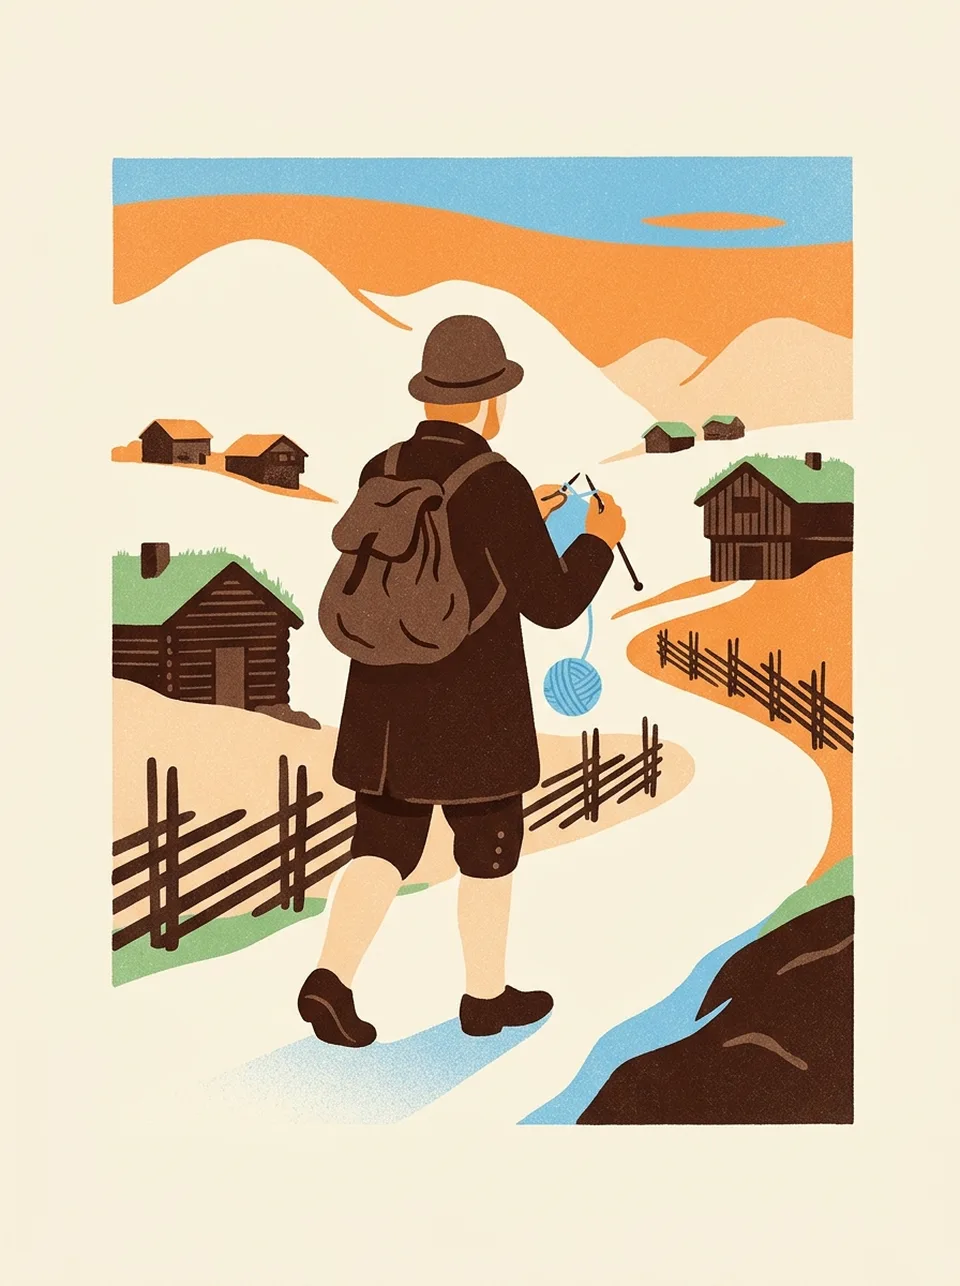
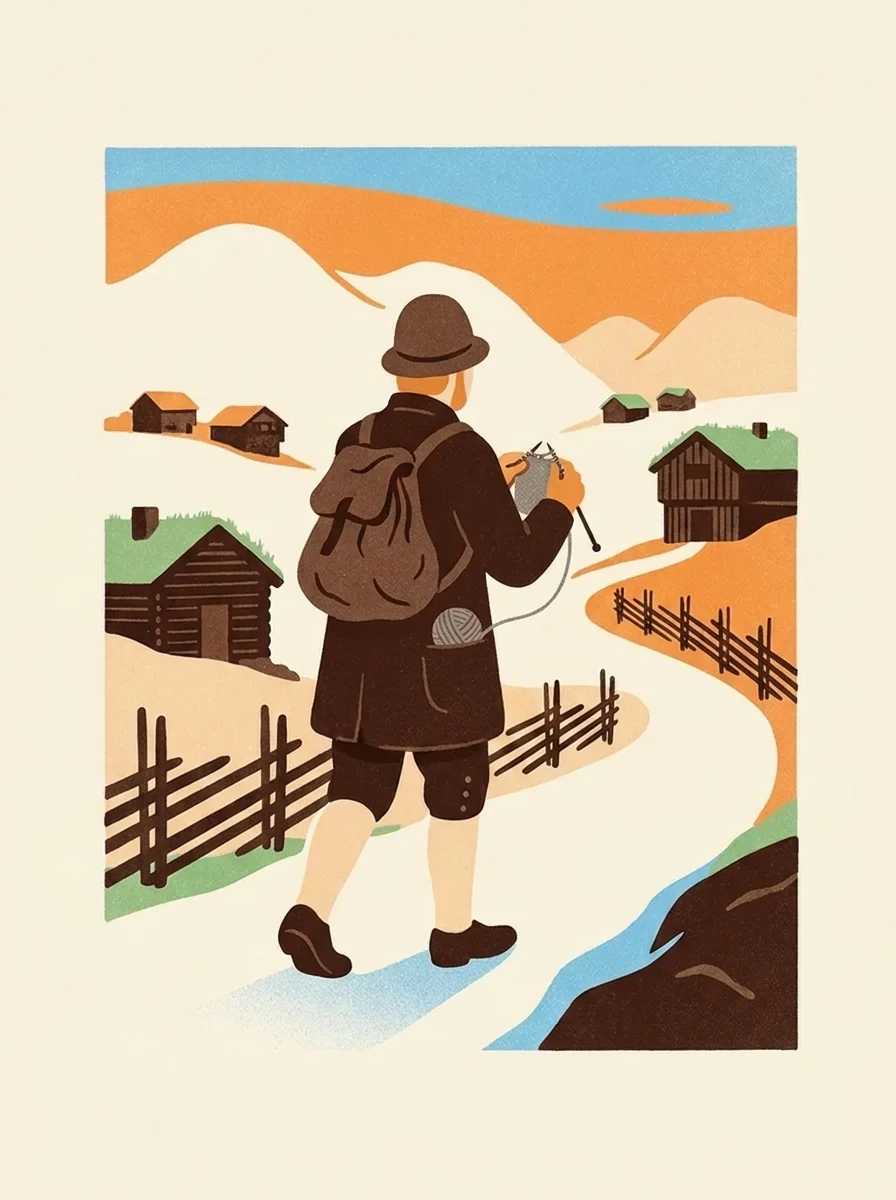
Krøniken: Hauge og strikkingen – nytt bilde, og fortellingen omtales som en mulig myte i lysbilde og lesehistorie
Claude-Session: https://claude.ai/code/session_014BdYtYS8Ragv9DejD2uiKp

diff --git a/kroniken/innhold/menneskerettigheter/historier.js b/kroniken/innhold/menneskerettigheter/historier.js
@@ -69,18 +69,20 @@ mellom:[['Hvorfor var det modig å dele ut løpesedlene?','Mange i England mente
 snakk:'Jebb hjalp barna til dem som hadde vært landets fiender. Er det vanskeligere å hjelpe noen man har vært uvenner med? Bør det spille noen rolle?'},
 
 {id:'hauge',tittel:'Mannen som gikk og strikket',kilde:'historie',henvisning:'Norge, 1796–1814',bilde:'hauge.webp',
-ord:[['lekmann','en vanlig person som ikke er prest'],['å forkynne','å tale om troen sin for å få andre til å tro'],['konventikkel','et gammelt ord for et religiøst møte utenfor kirken'],['skreppe','en gammeldags ryggsekk']],
+ord:[['lekmann','en vanlig person som ikke er prest'],['å forkynne','å tale om troen sin for å få andre til å tro'],['konventikkel','et gammelt ord for et religiøst møte utenfor kirken'],['skreppe','en gammeldags ryggsekk'],['myte','en fortelling mange tror på, men som ingen har klart å bevise']],
 tekst:[
 'Hans Nielsen Hauge ble født i 1771 på en gård i Tune i Østfold. Han var bondesønn og hadde bare noen få års skolegang. En vårdag i 1796, da han var tjuefem år og gikk og arbeidet på jordet, fikk han en sterk opplevelse av at Gud kalte ham.',
-'Fra den dagen brukte han livet til å fortelle andre om troen sin. Han la ut på vandring. I løpet av noen år gikk han tusenvis av kilometer, gjennom store deler av landet, fra gård til gård. Han hadde skreppe på ryggen, og det fortelles at han strikket mens han gikk, slik at ikke tiden skulle gå til spille.',
+'Fra den dagen brukte han livet til å fortelle andre om troen sin. Han la ut på vandring. I løpet av noen år gikk han tusenvis av kilometer, gjennom store deler av landet, fra gård til gård. Han hadde skreppe på ryggen.',
+'I mange år har folk fortalt at Hauge strikket mens han gikk, slik at ikke tiden skulle gå til spille. Slik har han blitt tegnet og husket. Men er det sant?',
+'Ingen vet det sikkert. De som har lett i gamle papirer, har ikke funnet noen som så ham gjøre det. Det vi vet, er at han strikket i fengselet. Det har Hauge selv fortalt i et brev. Kanskje er strikkingen på landeveien en myte, en god fortelling som har vokst seg større for hver gang den ble fortalt.',
 'Der han kom, samlet han folk i stuene og talte. Han skrev bøker som ble lest over hele landet. Han startet også bedrifter, blant annet en papirmølle, og hjalp andre i gang med handel og håndverk. Tilhengerne hans, haugianerne, ble kjent som flittige og ærlige folk.',
 'Men Hauge gjorde noe ulovlig. En lov fra 1741 sa at vanlige folk ikke fikk holde religiøse møter uten at presten hadde gitt lov. Bare prestene skulle forkynne. Hauge var lekmann, og han spurte ikke om lov.',
 'Han ble arrestert gang på gang. I 1804 ble han satt i fengsel i Christiania, som Oslo het den gangen. Der ble han sittende i årevis mens saken ble utredet. Helsa hans ble ødelagt.',
 'Først i 1814, samme år som Norge fikk sin grunnlov, falt den endelige dommen. Da ble straffen bare en bot.',
 'Hauge døde i 1824. Loven han hadde brutt, ble opphevet i 1842. Tre år senere fikk kristne utenfor statskirken lov til å danne egne menigheter.',
 'Hauge ville ikke lage en ny kirke. Han var lutheraner hele livet. Det han krevde, var retten til å snakke høyt om det han trodde på.'],
-finn:[['Hvor ble Hans Nielsen Hauge født?','På en gård i Tune i Østfold.'],['Hva gjorde han mens han gikk, ifølge fortellingene?','Han strikket.'],['Hvilket år ble loven han brøt, opphevet?','1842.']],
-mellom:[['Hvorfor ble Hauge arrestert?','Han holdt religiøse møter og forkynte uten å være prest og uten å spørre presten om lov.'],['Hva har Hauges sak med både religionsfrihet og ytringsfrihet å gjøre?','Han krevde retten til å tro på sin måte og til å snakke høyt om det.']],
+finn:[['Hvor ble Hans Nielsen Hauge født?','På en gård i Tune i Østfold.'],['Hvor vet vi sikkert at Hauge strikket?','I fengselet. Det har han selv fortalt i et brev.'],['Hvilket år ble loven han brøt, opphevet?','1842.']],
+mellom:[['Hvorfor ble Hauge arrestert?','Han holdt religiøse møter og forkynte uten å være prest og uten å spørre presten om lov.'],['Hva har Hauges sak med både religionsfrihet og ytringsfrihet å gjøre?','Han krevde retten til å tro på sin måte og til å snakke høyt om det.'],['Hvorfor er vi mer sikre på at Hauge strikket i fengselet enn på landeveien?','Om fengselet har vi hans eget brev. Om landeveien har vi bare fortellinger som er skrevet ned lenge etterpå.']],
 snakk:'Hauge brøt loven fordi han mente den var urettferdig. Er det noen gang riktig å bryte en lov? Hva bør man i så fall være villig til å tåle?'},
 
 {id:'malala',tittel:'Jenta som ville gå på skolen',kilde:'historie',henvisning:'Pakistan, Storbritannia og Oslo, 2009–2014',bilde:'malala.webp',

diff --git a/kroniken/innhold/menneskerettigheter/tema3-religionsfrihet.js b/kroniken/innhold/menneskerettigheter/tema3-religionsfrihet.js
@@ -16,12 +16,13 @@ lysbilder:[
  'Grunnloven fra 1814 ga mange friheter, men ikke religionsfrihet.',
  'Den sa at jøder og jesuitter ikke hadde adgang til riket.'],
  n:['Jesuittene er en katolsk munkeorden.','Bildet viser Eidsvollsbygningen, der Grunnloven ble skrevet.','Fortellingen om Henrik Wergeland og jødeparagrafen finnes som lesehistorie under Jødedommen.']},
-{type:'punkter',kicker:'1771–1824',tittel:'Hans Nielsen Hauge',hoyre:true,bilde:{fil:'hauge.webp',alt:'En mann i bondeklær fra rundt 1800 med skreppe på ryggen sett bakfra. Han går langs en landevei forbi gårder med torvtak og strikker mens han går'},punkter:[
+{type:'punkter',kicker:'1771–1824',tittel:'Hans Nielsen Hauge',hoyre:true,bilde:{fil:'hauge.webp',alt:'En mann i bondeklær fra rundt 1800 med skreppe på ryggen sett bakfra. Han går langs en landevei forbi gårder med torvtak og strikker mens han går, slik en kjent fortelling sier at Hauge gjorde'},punkter:[
  'Bondesønnen **Hans Nielsen Hauge** vandret rundt i Norge og talte om kristen tro.',
  'Det var forbudt for andre enn prester.',
  'Han ble arrestert mange ganger og satt til slutt mange år i fengsel.',
- 'Loven han brøt, ble fjernet i 1842.'],
- n:['Loven het konventikkelplakaten og var fra 1741.','Hauge var selv luthersk kristen. Saken viser at religionsfrihet også handler om retten til å tro på sin egen måte innenfor flertallets religion.','Fortellingen finnes som lesetekst: «Mannen som gikk og strikket».']},
+ 'Loven han brøt, ble fjernet i 1842.',
+ 'Det fortelles at han strikket mens han gikk. Ingen har funnet bevis for det. Kanskje er det en **myte**.'],
+ n:['Loven het konventikkelplakaten og var fra 1741.','Hauge var selv luthersk kristen. Saken viser at religionsfrihet også handler om retten til å tro på sin egen måte innenfor flertallets religion.','Fortellingen finnes som lesetekst: «Mannen som gikk og strikket».','Myte eller fakta? Strikkehistorikeren Nina Granlund Sæther skriver at fortellingene om strikking på vandring ikke har troverdige kilder, men at Hauge selv forteller i et brev at han strikket i fengselet (1804–1811). Spør elevene: Hvordan kan vi finne ut om en gammel fortelling er sann?']},
 {type:'tidslinje',kicker:'Steg for steg',tittel:'Veien til religionsfrihet i Norge',punkter:[
  {aar:'1845',tekst:['Andre kristne kirker','blir tillatt']},{aar:'1851',tekst:['Jøder får','komme til Norge']},{aar:'1956',tekst:['Forbudet mot','jesuitter fjernes']},{aar:'1964',tekst:['Religionsfrihet','inn i Grunnloven']},{aar:'2012',tekst:['Slutt på','statskirken']}],
  n:['Loven fra 1845 kalles dissenterloven. En dissenter var en kristen som sto utenfor statskirken.','Det tok altså 150 år fra Grunnloven ble skrevet til full religionsfrihet sto i den.','I dag sier Grunnloven § 16: «Alle innbyggere i riket har fri religionsutøvelse.»']},
